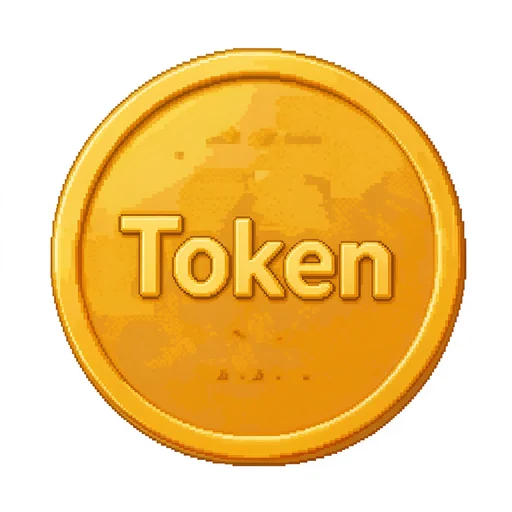
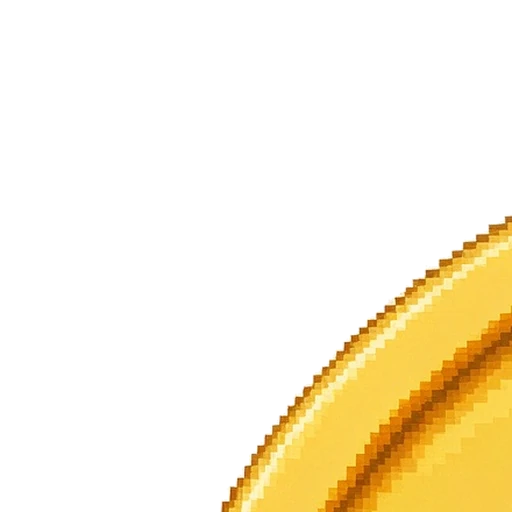
feat(彩蛋): token扃白底出透明金币(去豆包水印)、气泡改小改暗且整层固定上推

diff --git a/game.js b/game.js
@@ -72,19 +72,17 @@
      转场：一颗颗看得见的气泡柱（三层混搭）
      ① A 层密铺（直径 1.55~2.15 倍格距，实测 5 种屏幕 100% 无缝）
      ② B 大泡 / C 小泡点缀，半透明叠出前后层次
-     ③ 所有泡同速上涌（约 600px/s）→ 上升感；前沿波浪 + 一排露头气泡
+     ③ 整层固定排布、一起匀速上推（不在屏幕上「生成」）；幕顶一排露头泡，边缘是圆的
      游戏层在气泡完全盖住屏幕之前是隐藏的，所以不会提前变蓝。
      ============================================================ */
   var cur = null, curCvs = null, curCtx = null;
   var curSprites = [[], [], []];
-  var bubs = [], bubSpan = 0, bubTop = 0, bubCell = 60;
+  var bubs = [], bubLayH = 0, bubCell = 60, curTop = 0, curOver = 0;
   var frontPop = [];
   var curMode = 0, curLevel = 1.2, curT = 0, curLast = 0, curRaf = 0;
   var curCb = null, curOutCb = null, curFail = 0, curTexT = 0;
   var curW = 0, curH = 0, curDPR = 1, texDPR = 1;
   var CUR_IN = 1.05, CUR_OUT = 0.80;   /* 涌上来 / 退下去 的时长 */
-  var CUR_FULL = -0.40, CUR_START = 1.2;
-  var CUR_RISE = 600;                  /* 泡沫整体上升速度 px/s */
 
   /* 预渲染一颗气泡（不透明实心 + 泡壁 + 冷色反光 + 高光），tone 决定色调 */
   function bubbleSprite(size, tone) {
@@ -95,10 +93,10 @@
     if (!g || !g.createRadialGradient) return c;
     var R = s / 2 - 1;
     var pal = tone === 1
-      ? ["#ffffff", "#f1fbff", "#c9e6fb", "#9dcff3"]
+      ? ["#e8f2f9", "#d5e6f2", "#b3cde2", "#8db0cd"]
       : tone === 2
-        ? ["#ffffff", "#f2feff", "#cdeffb", "#a8dff0"]
-        : ["#ffffff", "#f7fcff", "#d8ecfd", "#b2d8f4"];
+        ? ["#ebf4f7", "#d9ebf0", "#b7d6e0", "#91b9cb"]
+        : ["#edf4f9", "#dbe8f2", "#b8cfe2", "#93b3cf"];
 
     var rg = g.createRadialGradient(R * 1.26, R * 1.3, R * 0.1, R, R, R * 1.46);
     rg.addColorStop(0, pal[0]);
@@ -141,43 +139,43 @@
     return curSprites[tone][idx];
   }
 
-  /* 铺一座气泡柱：A 层密铺（一颗颗看得清，负责无缝）＋B 大泡＋C 小泡做层次 */
   function mkBub(x, y, dia, tone, a, bw) {
     return { x0: x, y0: y, r: dia / 2, sp: pickSprite(dia, tone), a: a, bw: bw, ph: rnd(0, 6.28) };
   }
 
+  /* 铺一层气泡幕：A 层密铺（一颗颗看得清、负责无缝）＋B 大泡＋C 小泡点缀。
+     层内每颗泡的位置是固定的，整层一起匀速上推 —— 不在屏幕上「生成」 */
   function buildBubbles() {
     bubs = [];
     if (!curW || !curH) return;
-    var cell = clamp(Math.min(curW, curH) * 0.085, 46, 86);
+    var cell = clamp(Math.min(curW, curH) * 0.082, 44, 80);
     bubCell = cell;
-    CUR_RISE = clamp(curH * 0.80, 520, 900);
-    bubTop = -cell * 3;
-    bubSpan = curH + cell * 6;          /* 循环区间，比屏幕高一点 */
+    curOver = cell * 3;                       /* 层顶多升出屏幕这么多px，确保盖满 */
+    bubLayH = curH + curOver * 2 + cell * 2;
     var cols = Math.ceil(curW / cell) + 2;
-    var rows = Math.ceil(bubSpan / cell) + 2;
+    var rows = Math.ceil(bubLayH / cell) + 2;
 
     for (var gy = -1; gy < rows; gy++) {
       for (var gx = -1; gx < cols; gx++) {
-        var bx = gx * cell + (Math.random() - 0.5) * cell * 0.24 + (gy % 2 ? cell * 0.5 : 0);
-        var by = gy * cell + (Math.random() - 0.5) * cell * 0.24;
+        var bx = gx * cell + (Math.random() - 0.5) * cell * 0.16 + (gy % 2 ? cell * 0.5 : 0);
+        var by = gy * cell + (Math.random() - 0.5) * cell * 0.16;
 
-        /* A：主角，密铺（直径 1.55~2.15 倍格距 → 叠满无缝隙） */
-        var dA = cell * rnd(1.55, 2.15);
-        bubs.push(mkBub(bx, by, dA, (Math.random() * 3) | 0, 1, cell * 0.09));
+        /* A：主角，密铺（直径 1.35~1.85 倍格距，抖动极小 → 叠满无缝隙） */
+        var dA = cell * rnd(1.35, 1.85);
+        bubs.push(mkBub(bx, by, dA, (Math.random() * 3) | 0, 1, cell * 0.05));
 
         /* B：大泡点缀 */
-        if (Math.random() < 0.25) {
-          var dB = cell * rnd(1.9, 3.2);
+        if (Math.random() < 0.22) {
+          var dB = cell * rnd(1.6, 2.6);
           bubs.push(mkBub(bx + rnd(-cell, cell), by + rnd(-cell, cell), dB,
-            (Math.random() * 3) | 0, rnd(0.9, 1), cell * 0.13));
+            (Math.random() * 3) | 0, rnd(0.88, 1), cell * 0.07));
         }
 
         /* C：小泡点缀（半透明，打碎细节） */
         if (Math.random() < 0.85) {
-          var dC = cell * rnd(0.34, 0.86);
+          var dC = cell * rnd(0.28, 0.70);
           bubs.push(mkBub(bx + rnd(-cell, cell), by + rnd(-cell, cell), dC,
-            (Math.random() * 3) | 0, rnd(0.34, 0.8), cell * 0.18));
+            (Math.random() * 3) | 0, rnd(0.32, 0.78), cell * 0.09));
         }
       }
     }
@@ -218,7 +216,7 @@
     frontPop = [];
     var n = Math.round(curW / (bubCell * 0.9)) + 2;
     for (var i = 0; i < n; i++) {
-      var dia = bubCell * rnd(1.5, 2.8);
+      var dia = bubCell * rnd(1.2, 2.2);
       frontPop.push({
         x: (i + 0.5) * curW / n + rnd(-16, 16),
         r: dia / 2,
@@ -230,10 +228,6 @@
     }
   }
 
-  function frontAt(x) {
-    return curLevel * curH + Math.sin(x * 0.013 + curT * 2.2) * 26;
-  }
-
   function drawCurtain() {
     if (!curCtx || !curCvs) return;
     var c = curCtx;
@@ -241,24 +235,22 @@
     c.clearRect(0, 0, curCvs.width, curCvs.height);
     c.setTransform(curDPR, 0, 0, curDPR, 0, 0);
 
-    /* 气泡柱：所有泡以同一速度往上涌（同速 → 行列不乱，覆盖一直满） */
-    var rise = curT * CUR_RISE;
+    /* 气泡幕：整层固定排布，一起匀速向上推（泡相对层是不动的） */
     for (var i = 0; i < bubs.length; i++) {
       var b = bubs[i];
-      var y = b.y0 - rise;
-      y = bubTop + ((((y - bubTop) % bubSpan) + bubSpan) % bubSpan);
-      var x = b.x0 + Math.sin(curT * 1.6 + b.ph) * b.bw;
-      if (y + b.r * 0.7 < frontAt(x)) continue;   /* 泡沫柱上面不画 */
+      var y = b.y0 + curTop;
+      if (y + b.r < 0 || y - b.r > curH) continue;      /* 屏幕外不画 */
+      var x = b.x0 + Math.sin(curT * 1.4 + b.ph) * b.bw;
       c.globalAlpha = b.a;
       c.drawImage(b.sp, x - b.r, y - b.r, b.r * 2, b.r * 2);
     }
     c.globalAlpha = 1;
 
-    /* 前沿露头的泡 */
+    /* 幕顶那排露头的泡，边缘是圆的而不是一刀切 */
     for (var p = 0; p < frontPop.length; p++) {
       var f = frontPop[p];
-      var fx = f.x + Math.sin(curT * 1.5 + f.ph) * f.bw;
-      var fy = frontAt(fx) + f.dy + Math.sin(curT * 2.1 + f.ph * 1.7) * 6;
+      var fx = f.x + Math.sin(curT * 1.2 + f.ph) * f.bw;
+      var fy = curTop + f.dy + Math.sin(curT * 1.8 + f.ph * 1.7) * 5;
       if (fy < -curH * 0.3 || fy > curH + curH * 0.3) continue;
       c.drawImage(f.sp, fx - f.r, fy - f.r, f.r * 2, f.r * 2);
     }
@@ -273,9 +265,9 @@
     var dur = curMode === 1 ? CUR_IN : CUR_OUT;
     var p = dur > 0 ? Math.min(1, curT / dur) : 1;
     var e = curMode === 1 ? 1 - Math.pow(1 - p, 3) : p * p;
-    var from = curMode === 1 ? CUR_START : CUR_FULL;
-    var to = curMode === 1 ? CUR_FULL : CUR_START + 0.04;
-    curLevel = from + (to - from) * e;
+    /* 幕顶位置：涌上来时从屏底升到屏幕上方（多升 curOver 保证盖满），退出时退回 */
+    var travel = curH + curOver;
+    curTop = curMode === 1 ? (curH - e * travel) : (-curOver + e * travel);
 
     drawCurtain();
 
@@ -296,7 +288,7 @@
     var ok = buildCurtain();
     playSfx();                      /* 气泡声与气泡柱同拍响起 */
     curCb = cb || null;
-    curMode = 1; curT = 0; curLast = 0; curLevel = CUR_START;
+    curMode = 1; curT = 0; curLast = 0; curTop = curH;
     if (curRaf) { cancelAnimationFrame(curRaf); curRaf = 0; }
     clearTimeout(curFail);
 
